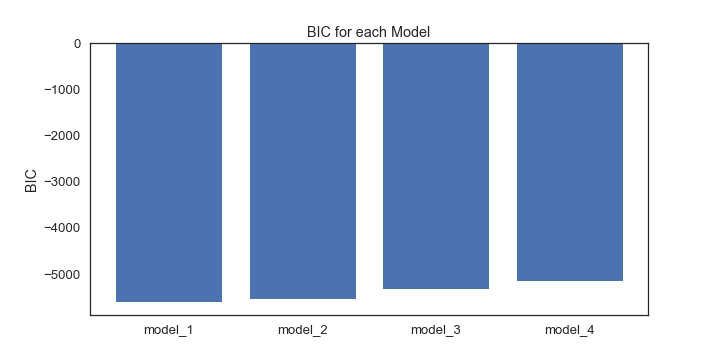
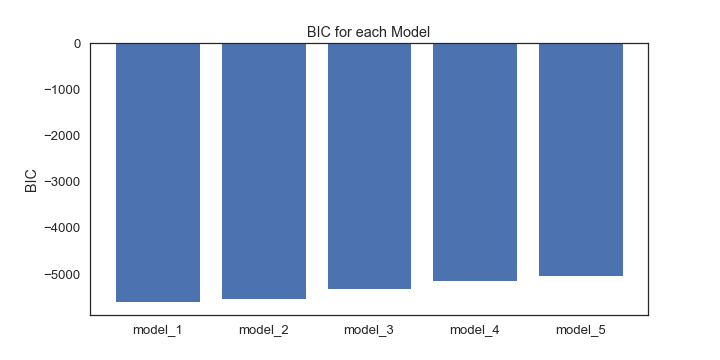
adding model-5

diff --git a/hw-4/instrumental-interactions/model_template.py b/hw-4/instrumental-interactions/model_template.py
@@ -291,7 +291,6 @@ def model_2(data, learning_rate, rho_rew, rho_pun):
         """
         scaling_factor = (reward == 1) * rho_rew + (reward == -1) * rho_pun
         prediction_error = (scaling_factor * reward) - q[state, action]
-
         return q[state, action] + (learning_rate * prediction_error)
     return model_negative_log_likelihood(data, update_rule)
 
@@ -350,17 +349,6 @@ Model Number: 4
 Parameters: \epsilon, \beta, bias_{app}, bias_{wth}
 Expected BIC: 4771
 """
-# Each of the 4 cue states Go+, Go-, NoGo+, NoGo-
-# Can be optionally associated with a bias
-# b(a_t) takes value 
-#   b_{app} for approach go actions     Go+ - 
-#   b_{wth} for withdrawal go actions   Go- 
-#   0 for NoGo+
-#   0 for NoGo-
-# 4 states : Go+, Go-, NoGo+, NoGo-
-# 2 actions: 1, 0
-# 4 biases: Go+: bias_{app}, Go-, bias_{wth}, 0, 0
-# Determine the appropriate bias based on state (context) and action
 def model_4(data, learning_rate, beta, bias_app, bias_wth):
     """
     Model-4 includes biases.
@@ -405,13 +393,14 @@ def model_5(data, learning_rate, rho_rew, rho_pun, bias_app, bias_wth):
     """
 
     """
-    def q_bias(q, state,action, reward):
-        if state == 0:
-            return bias_app 
-        elif state == 1:
-            return bias_wth
-        else:
-            return 0
+    def q_bias(q, state):   
+        bias_matrix = np.array([
+            [0.0, bias_app],  # Go+ (state 0): NoGo = 0, Go = bias_app
+            [0.0, bias_wth],  # Go- (state 1): NoGo = 0, Go = bias_wth
+            [0.0, 0.0],       # NoGo+ (state 2): No bias for either action
+            [0.0, 0.0]        # NoGo- (state 3): No bias for either action
+        ])
+        return q[state] + bias_matrix[state] 
         
     def update_rule(q, state, action, reward):
         """
@@ -424,13 +413,12 @@ def model_5(data, learning_rate, rho_rew, rho_pun, bias_app, bias_wth):
         reward: int
             The reward
         """
-        if reward == 1:
-            prediction_error = (rho_rew * reward) - q[state, action]
-        elif reward == -1:
-            prediction_error = (rho_pun * reward) - q[state, action]
-        return q[state, action] + learning_rate * prediction_error + bias_app - bias_wth
+        scaling_factor = (reward == 1) * rho_rew + (reward == -1) * rho_pun
+        prediction_error = (scaling_factor * reward) - q[state, action]
+        return q[state, action] + (learning_rate * prediction_error)
+ 
     
-    return model_negative_log_likelihood(data, update_rule)
+    return model_negative_log_likelihood(data, update_rule, q_bias=q_bias)
 
 """
 Model-6: Assumes that:
@@ -497,7 +485,14 @@ BOUNDS = {
         'beta': (0, 100),
         'bias_app': (-10, 10),
         'bias_wth': (-10, 10)
-    }
+    }, 
+    'model_5': {
+        'learning_rate': (0, 1),
+        'rho_rew': (0, 100),
+        'rho_pun': (0, 100),
+        'bias_app': (-10, 10),
+        'bias_wth': (-10, 10)
+    },
 }
 
 INITIAL_PARAMS = {
@@ -521,7 +516,14 @@ INITIAL_PARAMS = {
         'beta': 0.5,
         'bias_app': 0.5,
         'bias_wth': 0.5
-    }
+    }, 
+    'model_5': {
+        'learning_rate': 0.1,
+        'rho_rew': 0.5,
+        'rho_pun': 0.5,
+        'bias_app': 0.5,
+        'bias_wth': 0.5
+    },
 }
 
 MODELS = {
@@ -529,7 +531,7 @@ MODELS = {
     'model_2': model_2,
     'model_3': model_3,
     'model_4': model_4,
-    #'model_5': model_5,
+    'model_5': model_5,
     #'model_6': model_6,
     #'model_7': model_7
 }
